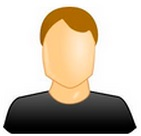
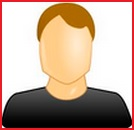
Name and photo are done

Changed region(s): [[0.0, 0.0, 1.0, 1.0], [0.1493, 0.6769, 0.2687, 0.7077]]

diff --git a/homework01/index.html b/homework01/index.html
@@ -6,42 +6,48 @@
         <link rel="stylesheet" href="css/style.css">
     </head>
     <body>
-        <div class="paper">
-            <div class="name">
-              <!--Новиков Дмитрий Георгиевич-->
-              Иванов Иван Иванович
-            </div>
-            <div class="photo">
-              <!--<img src="./img/dn.png" alt="Фотография профиля" title="Новиков Дмитрий Георгиевич"/>-->
-              <img src="img/person.jpg" alt="Фотография профиля" title="Новиков Дмитрий Георгиевич"/>
-            </div>
-            <div class="textblock">
-                <!--Студент заборостроительного университета-->
-                Студент курса GoFrontend в GoIT
-            </div>
-            <hr>
-            <div class="textblock">
-              Хочу учить фронтенд, потому что:
-              <ul>
-                <li>Это очень интересно!</li>
-                <li>Очень перспективно!</li>
-                <li>Просто очень нравится!</li>
-              </ul>
-            </div>
-            <hr>
-            <div class="textblock">
-              Мой контактный телефон
-              <br>+38063557*667
-            </div>
-            <hr>
-            <div class="textblock">
-              Мой профиль в facebook
-              <br><a href="https://www.facebook.com/Dmytro.G.Novikov" target="_blank">Dmytro Novikov</a>
-            </div>
-            <hr>
-            <div class="textblock">
-              Мой фидбек:
-              <br>Если нужно, могу построить вам забор
+        <div class="layer0">
+            <div class="layer1">
+                <div class="paper">
+                    <div class="name">
+                        <!--Новиков Дмитрий Георгиевич-->
+                        Иванов Иван Иванович
+                    </div>
+                    <div class="photo">
+                        <!--<img src="./img/dn.png" alt="Фотография профиля" title="Новиков Дмитрий Георгиевич"/>-->
+                        <img src="img/person.jpg" alt="Фотография профиля" title="Новиков Дмитрий Георгиевич"/>
+                    </div>
+                    <div class="textblock1">
+                        <!--Студент заборостроительного университета-->
+                        Студент курса GoFrontend в GoIT
+                    </div>
+                    <hr>
+                    <div class="textblock">
+                        Хочу учить фронтенд, потому что:
+                        <ul>
+                            <li>Заборы строить не интересно</li>
+                            <li>Платят мало</li>
+                            <!-- <li>Это очень интересно!</li>
+                            <li>Очень перспективно!</li> -->
+                            <li>Просто очень нравится!</li>
+                        </ul>
+                        <!-- <div class="textblock">
+                        Мой контактный телефон
+                        <br>+38063557*667
+                        </div>
+                        <hr>
+                        <div class="textblock">
+                        Мой профиль в facebook
+                        <br><a href="https://www.facebook.com/Dmytro.G.Novikov" target="_blank">Dmytro Novikov</a>
+                        </div>
+                        <hr>
+                        <div class="textblock">
+                        Мой фидбек:
+                        <br>Если нужно, могу построить вам забор
+                        </div> -->
+                    </div>
+                    <hr>
+                </div>
             </div>
         </div>
     </body>

diff --git a/homework01/css/style.css b/homework01/css/style.css
@@ -1,13 +1,28 @@
 html,
 body {
-    background: #eee;
     margin: 0;
-    padding: 4px 0px 0px 0px;
+    padding: 0;
+    /*padding: 4px 0px 0px 0px;*/
+}
+
+.layer0 {
+    border-bottom: 4px solid #000;
+    height: 802px;
+    width: 1440px;
+}
+
+.layer1 {
+    background: #eee;
+    border-bottom-left-radius: 4px;
+    border-bottom-right-radius: 4px;
+    height: 798px;
+    padding-top: 4px;
+    width: 1440px;
 }
 
 .paper {
     background: #fff;
-    box-shadow: 0 0 3px 3px #d5d5d5;
+    box-shadow: 0 0 2px 2px #d5d5d5;
     font-family: "Times New Roman", serif;
     font-size: 18px;
     margin: 0 auto;
@@ -16,9 +31,10 @@ body {
 }
 
 .name {
-  font-size: 20px;
-  font-weight: bold;
-  text-align: center;
+    font-size: 22px;
+    font-weight: bold;
+    padding: 18;
+    text-align: center;
 }
 
 .photo {
@@ -26,9 +42,10 @@ body {
 }
 
 img {
-  height: 130px;
+    height: 134px;
 }
 
-.textblock {
-    padding: 10px;
+.textblock1 {
+    margin-bottom: 14px;
+    padding: 3px 12px;
 }
